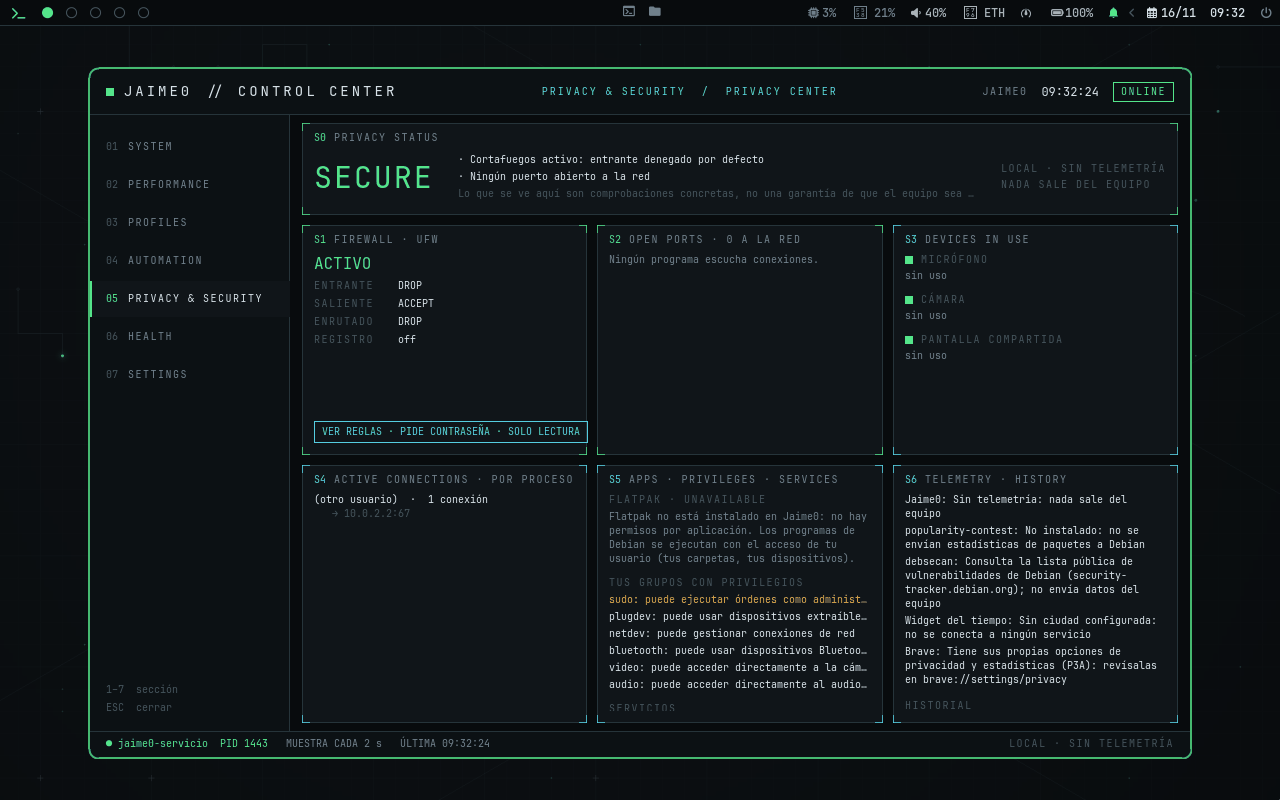
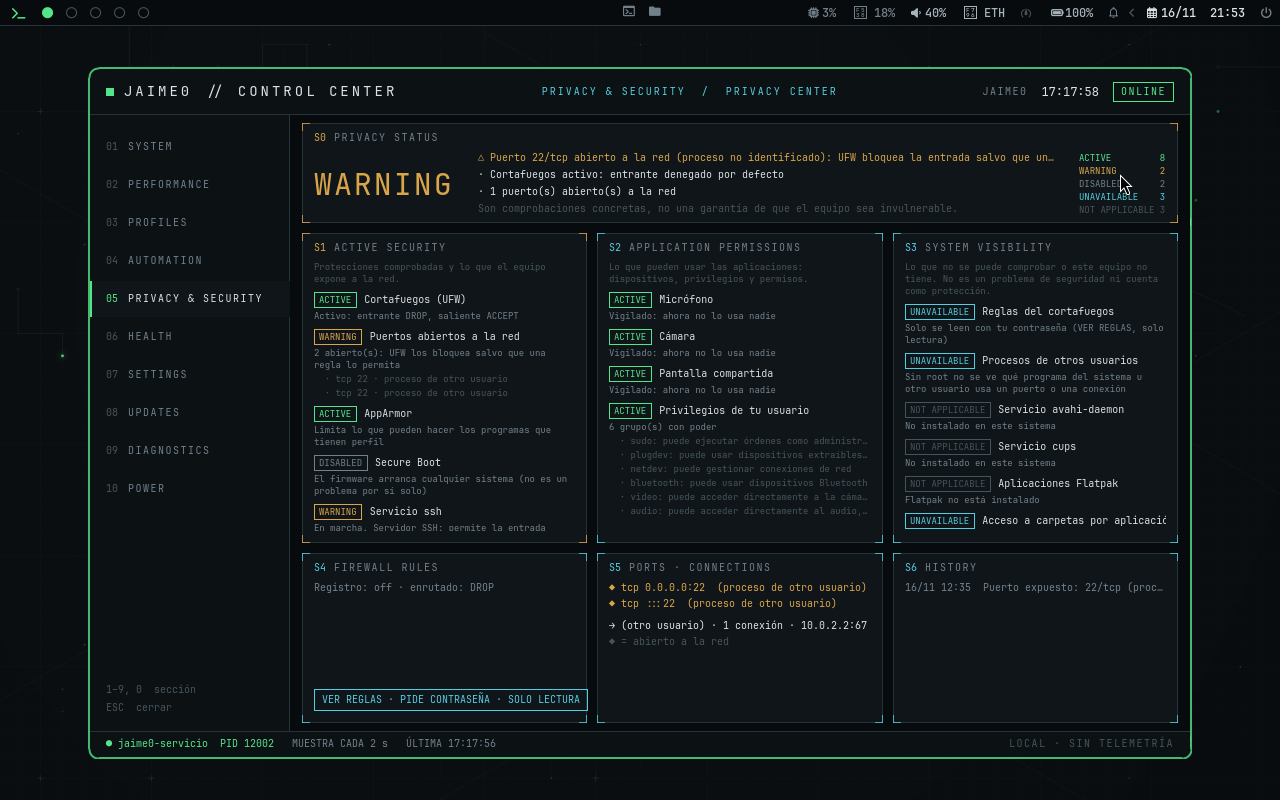
README: capturas de UPDATES, DIAGNOSTICS y POWER, y las de las secciones reorganizadas

diff --git a/README.md b/README.md
@@ -90,20 +90,24 @@ Se abre con `SUPER + I` o con el icono de Jaime0 de la barra (junto a la baterí
 | **AUTOMATION** | Reglas «cuando pase esto → haz esto» (p. ej. batería baja → ahorro). Funcionan con la ventana cerrada | `jaime0-reglas lista` |
 | **PRIVACY & SECURITY** | Tres bloques: ACTIVE SECURITY (cortafuegos, puertos, AppArmor, Secure Boot, servicios, telemetría), APPLICATION PERMISSIONS (micrófono, cámara, pantalla, privilegios, Flatpak) y SYSTEM VISIBILITY (lo que no se puede comprobar o no aplica, que nunca cuenta como problema) | `jaime0-privacidad` |
 | **HEALTH** | Cómo evoluciona el sistema: gráficas e histórico, temperaturas, almacenamiento, batería, incidencias y SENSORS & TRENDS (mínimo, media y pico del rango) | `jaime0-salud incidencias` |
-| **SETTINGS** | Animaciones (no, sutil, suave), frecuencia de medida, umbrales de alerta, avisos y el atajo | `jaime0-ajustes` |
+| **SETTINGS** | Animaciones (no, sutil, suave), frecuencia de medida, umbrales de alerta, avisos, el atajo y el tamaño de la ventana | `jaime0-ajustes` |
 | **UPDATES** | Versión instalada y disponible de Jaime0 (firmada), cambios, qué archivos cambiarán, paquetes de Debian pendientes y de seguridad, y tus archivos en conflicto. Instalar y revertir piden autorización en una terminal | `jaime0-update` |
 | **DIAGNOSTICS** | Busca problemas reales (servicios caídos, configuración rota, permisos, gráficos, disco…) y explica cada uno: qué se ha visto, causas posibles, consecuencias y qué hacer. Las reparaciones enseñan las órdenes, piden confirmación y guardan copia | `jaime0-diagnostico comprobar` |
 | **POWER** | Batería en detalle (salud, ciclos, consumo, autonomía), gráficas (integrada, NVIDIA y qué programas la usan), perfil de energía, tiempos de bloqueo y suspensión, e histórico de consumo por perfil. Cada dato dice si es medido, calculado o estimado | `jaime0-ajustes poner inactividad_suspender 30` |
 
 | PERFORMANCE | PROFILES |
 |---|---|
-| ![Núcleos, carga, memoria y procesos](capturas/cc-rendimiento.png) | ![Los seis perfiles](capturas/cc-perfiles.png) |
+| ![Núcleos, carga, memoria, disco, red, picos y la tabla de procesos](capturas/cc-rendimiento.png) | ![Los seis perfiles](capturas/cc-perfiles.png) |
 | **AUTOMATION** | **PRIVACY & SECURITY** |
-| ![Reglas y su historial](capturas/cc-automatizacion.png) | ![Cortafuegos, puertos, dispositivos y telemetría](capturas/cc-privacidad.png) |
+| ![Reglas y su historial](capturas/cc-automatizacion.png) | ![Seguridad activa, permisos de aplicaciones y lo que no se puede comprobar](capturas/cc-privacidad.png) |
 | **HEALTH** | **SETTINGS** |
-| ![Gráficas, almacenamiento, batería e incidencias](capturas/cc-salud.png) | ![Animaciones, frecuencias, umbrales, avisos y atajo](capturas/cc-ajustes.png) |
+| ![Gráficas, tendencias del rango y detección de hardware](capturas/cc-salud.png) | ![Animaciones, frecuencias, umbrales, avisos y atajo](capturas/cc-ajustes.png) |
+| **UPDATES** | **DIAGNOSTICS** |
+| ![Versión instalada, paquetes de Debian y conflictos](capturas/cc-actualizaciones.png) | ![Un problema explicado: lo detectado, causas, consecuencias y comprobaciones](capturas/cc-diagnosticos.png) |
+| **POWER** | |
+| ![Batería con el origen de cada dato, gráficas, perfil de energía e inactividad](capturas/cc-energia.png) | |
 
-Lo hace funcionar `jaime0-servicio`, que se arranca con la sesión, usa unos 55 MiB y casi nada de CPU, y guarda el historial en `~/.local/state/jaime0`. Si la ventana no está instalada o el servicio se para, el resto del sistema sigue igual y el estado se ve con `jaime0-salud`. Más en [docs/control-center.md](docs/control-center.md).
+Lo hace funcionar `jaime0-servicio`, que se arranca con la sesión, usa unos 45 MiB y casi nada de CPU (0,16 % con la ventana cerrada), y guarda el historial en `~/.local/state/jaime0`. Si la ventana no está instalada o el servicio se para, el resto del sistema sigue igual y el estado se ve con `jaime0-salud`. Más en [docs/control-center.md](docs/control-center.md).
 
 ### Cambiar el aspecto: `jaime0-ajustes`
 
